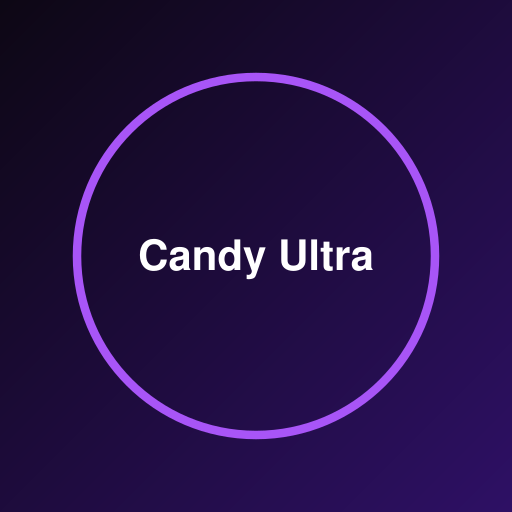
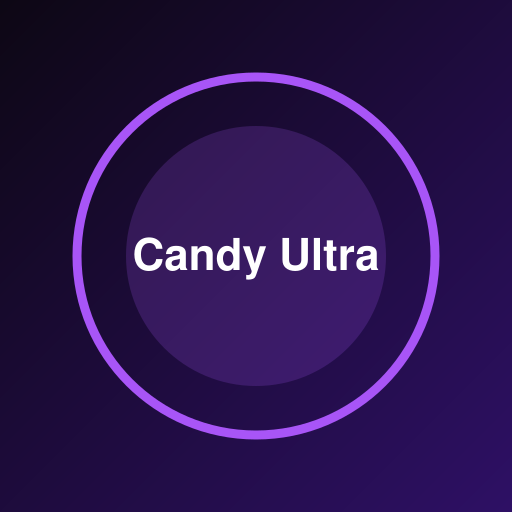
chore(pwa): update branding and visual assets
- Rename app to "Candy Ultra"
- Update primary theme color to dark purple (#0d0714)
- Add maskable support to icons
- Refine manifest metadata and screenshots

diff --git a/app/manifest.ts b/app/manifest.ts
@@ -4,28 +4,25 @@ export const dynamic = 'force-static';
 
 export default function manifest(): MetadataRoute.Manifest {
   return {
-    name: 'Candy Crush Ultra',
+    name: 'Candy Ultra',
     short_name: 'Candy Ultra',
-    description: 'A premium, fully offline, local-first Match-3 puzzle game.',
     start_url: '/',
     display: 'standalone',
-    background_color: '#ffffff',
-    theme_color: '#FF3B30',
+    orientation: 'any',
+    background_color: '#0d0714',
+    theme_color: '#0d0714',
     icons: [
-      {
-        src: '/icon.svg',
-        sizes: 'any',
-        type: 'image/svg+xml',
-      },
       {
         src: '/icon-192.png',
         sizes: '192x192',
         type: 'image/png',
+        purpose: 'any maskable' as any,
       },
       {
         src: '/icon-512.png',
         sizes: '512x512',
         type: 'image/png',
+        purpose: 'any maskable' as any,
       },
     ],
     screenshots: [
@@ -34,16 +31,15 @@ export default function manifest(): MetadataRoute.Manifest {
         sizes: '1080x1920',
         type: 'image/png',
         form_factor: 'narrow',
-        label: 'Mobile App View',
+        label: 'Mobile View',
       },
       {
         src: '/screenshot-desktop.png',
         sizes: '1920x1080',
         type: 'image/png',
         form_factor: 'wide',
-        label: 'Desktop App View',
+        label: 'Desktop View',
       },
     ],
-    categories: ['utilities', 'games'],
   };
 }

diff --git a/app/layout.tsx b/app/layout.tsx
@@ -5,7 +5,7 @@ import { SiteBottomNav } from '@/components/ui/site-bottom-nav';
 import { generateWebSiteSchema, generateVideoGameSchema } from '@/lib/schema';
 
 export const viewport: Viewport = {
-  themeColor: '#FF3B30',
+  themeColor: '#0d0714',
   width: 'device-width',
   initialScale: 1,
   maximumScale: 1,
@@ -62,7 +62,7 @@ export default function RootLayout({children}: {children: React.ReactNode}) {
     <html lang="en">
       <head>
         <link rel="manifest" href="/manifest.json" />
-        <meta name="theme-color" content="#FF3B30" />
+        <meta name="theme-color" content="#0d0714" />
         <script
           type="application/ld+json"
           dangerouslySetInnerHTML={{ __html: JSON.stringify(websiteSchema) }}
